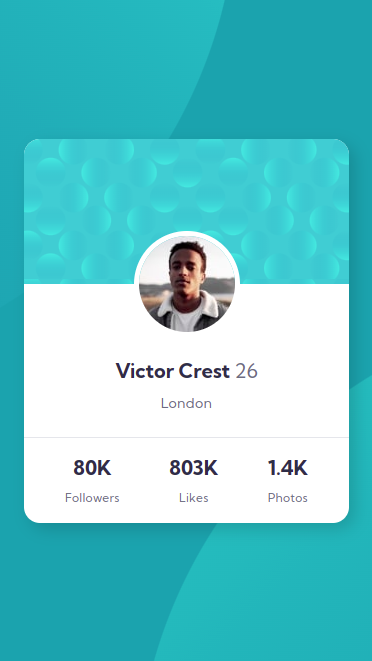
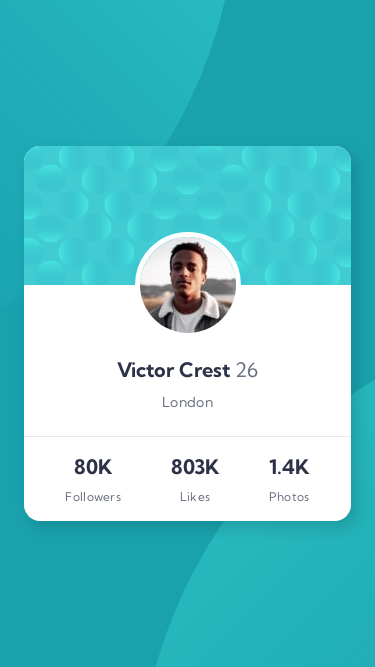
Some minor css fixes

diff --git a/challenges/profile_card_component/index.html b/challenges/profile_card_component/index.html
@@ -41,10 +41,10 @@
       class="card-bg-mob mobile:card-bg-desktop bg-primary-dark-cyan flex h-[100vh] w-full flex-col items-center justify-center text-center"
     >
       <section
-        class="card-shadow mobile:w-88 flex h-96 w-[87%] flex-col overflow-hidden rounded-2xl bg-white"
+        class="card-shadow mobile:w-88 flex h-[375px] w-[87%] flex-col overflow-hidden rounded-2xl bg-white"
       >
-        <div class="header-bg w-full flex-shrink basis-[38%]"></div>
-        <div class="relative flex flex-shrink basis-[62%] flex-col justify-end">
+        <div class="header-bg w-full flex-shrink basis-[37%]"></div>
+        <div class="relative flex flex-shrink basis-[63%] flex-col justify-end">
           <img
             src="./images/image-victor.jpg"
             alt="Profile Image"

diff --git a/challenges/profile_card_component/tailwind.config.js b/challenges/profile_card_component/tailwind.config.js
@@ -45,7 +45,7 @@ module.exports = {
         'bg-pattern-bottom': "url('/images/bg-pattern-bottom.png')",
       },
       screens: {
-        /* Responsive breakpoints */ mobile: '375px',
+        /* Responsive breakpoints */ mobile: '376px',
         // => @media (min-width: 375px) { ... }
         tablet: '768px',
         // => @media (min-width: 768px) { ... }
